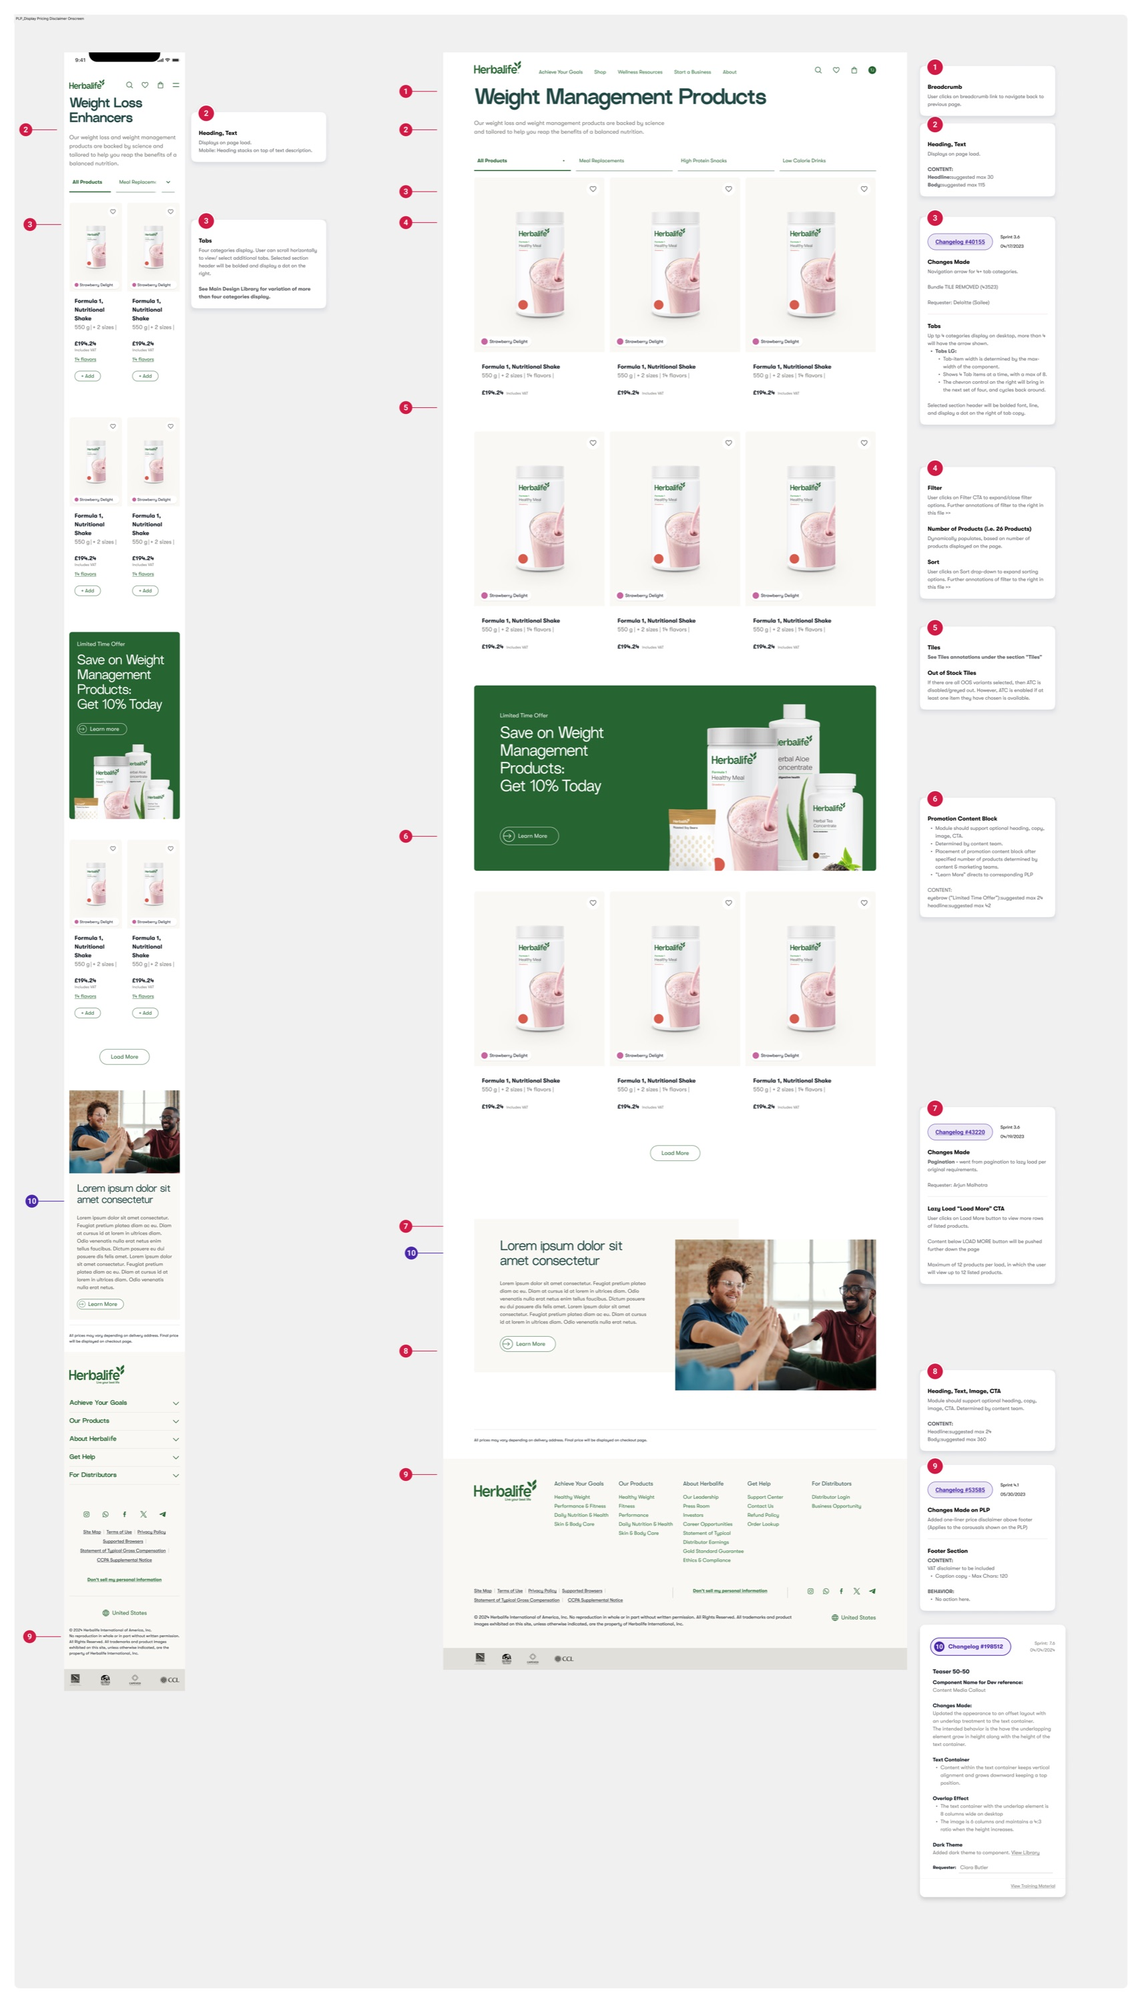
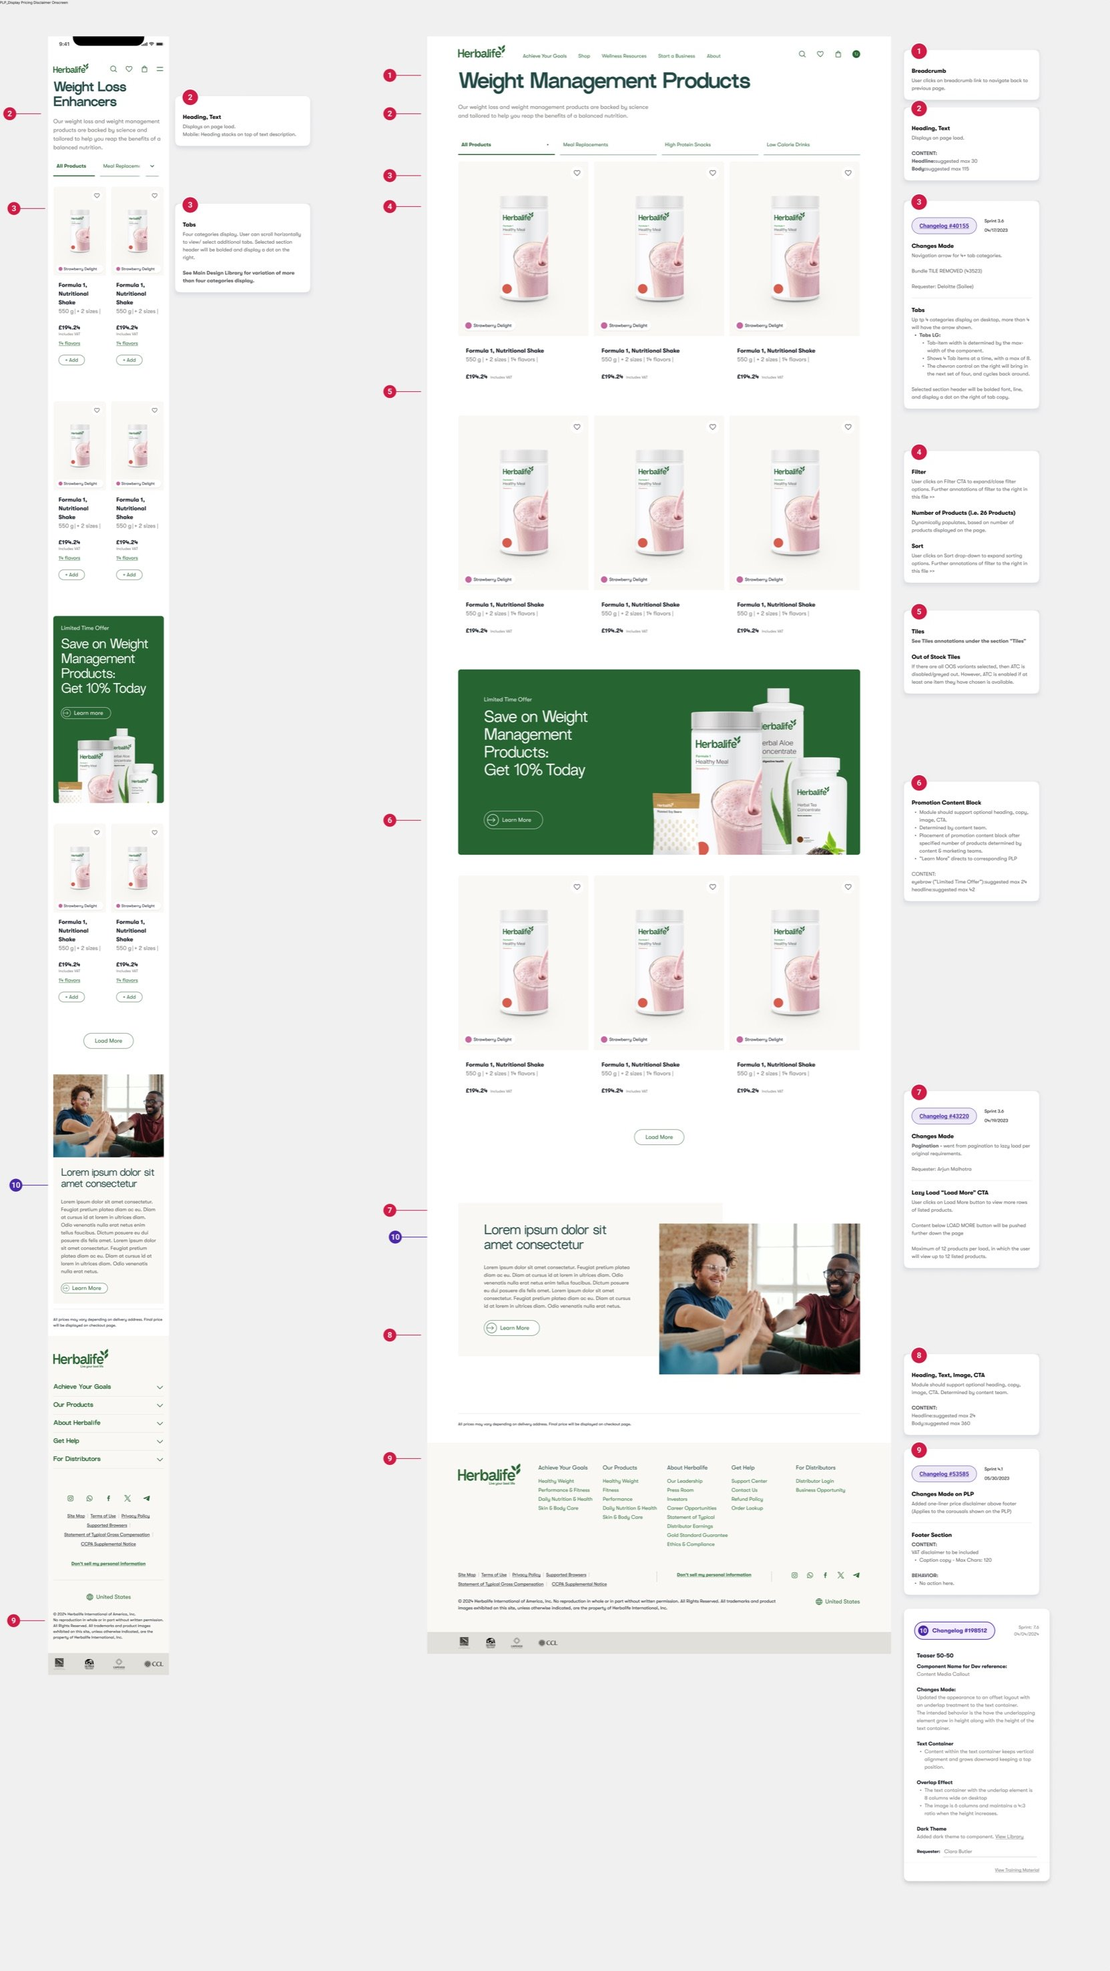
Herbalife case: Discovery carousel, Prioritization image, layout polish
- Discovery & Research: two-image carousel with arrows on both sides,
  dots, swipe, looping, and a one-time peek hint
- Prioritization image without background or shadows
- High Fidelity image without its white border; soft hover zoom on case
  images; phone mockup moved to Why it mattered, Overview text-only
- Invite: white band, shorter, without the extra email line
- Footer: equal white frame on all four sides

diff --git a/projects/herbalife/index.html b/projects/herbalife/index.html
@@ -108,34 +108,13 @@
 
     <div class="case-body">
 
-      <div class="case-row">
+      <div class="case-row case-row--text">
   <section class="case-block">
           <h2 class="case-block__label" data-i18n="hl.b0.label">Overview</h2>
           <div class="case-block__content">
             <p class="case-block__text" data-i18n="hl.b0.text">This project was about making shopping simpler and more trustworthy through clear navigation, a secure checkout, and integrated support. At the same time, we gave Herbalife distributors the tools to personalize the experience for their clients maintaining a consistent brand.</p>
           </div>
         </section>
-
-        <!-- Phone mockup with the product page recording playing on its screen -->
-        <figure class="case-figure mockup">
-          <div class="mockup__device">
-            <img class="mockup__frame" src="/assets/img/herbalife/phone-frame.png" alt="" />
-            <div class="mockup__screen">
-              <div class="mockup__status" aria-hidden="true">
-                <span class="mockup__time">9:41</span>
-                <span class="mockup__island"></span>
-                <span class="mockup__icons">
-                  <svg viewBox="0 0 18 12"><rect x="0" y="8" width="3" height="4" rx="1"/><rect x="5" y="5.5" width="3" height="6.5" rx="1"/><rect x="10" y="3" width="3" height="9" rx="1"/><rect x="15" y="0" width="3" height="12" rx="1"/></svg>
-                  <svg viewBox="0 0 16 12"><path d="M8 2.2c2.4 0 4.6.9 6.3 2.5l1.2-1.2A10.6 10.6 0 0 0 8 .5 10.6 10.6 0 0 0 .5 3.5l1.2 1.2A9 9 0 0 1 8 2.2z"/><path d="M8 5.6c1.5 0 2.9.6 4 1.6l1.2-1.2A7.3 7.3 0 0 0 8 3.9a7.3 7.3 0 0 0-5.2 2.1L4 7.2a5.7 5.7 0 0 1 4-1.6z"/><path d="M8 9c.6 0 1.1.2 1.6.6L8 11.5 6.4 9.6C6.9 9.2 7.4 9 8 9z"/></svg>
-                  <svg viewBox="0 0 27 12"><rect x=".6" y=".6" width="22.8" height="10.8" rx="3.2" fill="none" stroke="currentColor" stroke-opacity=".4" stroke-width="1.2"/><rect x="2.4" y="2.4" width="19.2" height="7.2" rx="1.8"/><path d="M25 4v4c.8-.3 1.4-1.1 1.4-2s-.6-1.7-1.4-2z" fill-opacity=".45"/></svg>
-                </span>
-              </div>
-              <div class="mockup__app">
-                <video class="media-video" src="/assets/img/herbalife/pdp-mobile.mp4" poster="/assets/img/herbalife/pdp-mobile-poster.jpg" autoplay muted loop playsinline disablepictureinpicture preload="auto" aria-label="Herbalife product page on mobile: browsing a product and adding it to the bag"></video>
-              </div>
-            </div>
-          </div>
-        </figure>
       </div>
 
       <div class="case-row case-row--flip">
@@ -160,8 +139,17 @@
           </div>
         </section>
 
-        <figure class="case-figure">
-          <img src="/assets/img/herbalife/mockup-phone.jpg" alt="" loading="lazy" />
+        <!-- Carousel: arrows to switch; on first view it nudges sideways to hint at the next image -->
+        <figure class="case-figure case-carousel" aria-roledescription="carousel" aria-label="Discovery and research boards">
+          <div class="case-carousel__viewport">
+            <div class="case-carousel__track">
+              <img class="case-carousel__slide" src="/assets/img/herbalife/discovery-1.jpg" width="1229" height="803" alt="Research boards: guidelines and case studies, a user journey map, and persona cards with experience opportunities" loading="lazy" />
+              <img class="case-carousel__slide" src="/assets/img/herbalife/discovery-2.jpg" width="1229" height="803" alt="Persona boards for four distributor profiles, a priority matrix and mapped needs per persona" loading="lazy" />
+            </div>
+          </div>
+          <button type="button" class="case-carousel__btn case-carousel__btn--prev" aria-label="Previous image"><svg viewBox="0 0 24 24" aria-hidden="true"><path d="M15 5l-7 7 7 7" fill="none" stroke="currentColor" stroke-width="2" stroke-linecap="round" stroke-linejoin="round"/></svg></button>
+          <button type="button" class="case-carousel__btn case-carousel__btn--next" aria-label="Next image"><svg viewBox="0 0 24 24" aria-hidden="true"><path d="M9 5l7 7-7 7" fill="none" stroke="currentColor" stroke-width="2" stroke-linecap="round" stroke-linejoin="round"/></svg></button>
+          <div class="case-carousel__dots" aria-hidden="true"><span class="is-active"></span><span></span></div>
         </figure>
       </div>
 
@@ -173,8 +161,8 @@
           </div>
         </section>
 
-        <figure class="case-figure">
-          <img src="/assets/img/herbalife/mockup-phone.jpg" alt="" loading="lazy" />
+        <figure class="case-figure case-figure--natural">
+          <img src="/assets/img/herbalife/prioritization.webp" width="1084" height="942" alt="Prioritization flow: personas, interviews, surveys and quantitative data led to 120+ jobs to be done, prioritized into key features and priorities for each persona" loading="lazy" />
         </figure>
       </div>
 
@@ -201,8 +189,7 @@
 
         <figure class="case-figure case-figure--spec">
           <a href="/assets/img/herbalife/high-fidelity-handoff.jpg" target="_blank" rel="noopener">
-            <img src="/assets/img/herbalife/high-fidelity-handoff.jpg" width="1711" height="3000" alt="Annotated high-fidelity spec of the Weight Management product listing page, on mobile and desktop, with numbered notes on each component" loading="lazy" />
-            <span class="case-figure__badge"><span data-i18n="hl.spec.open">View full spec</span> <span aria-hidden="true">↗</span></span>
+            <img src="/assets/img/herbalife/high-fidelity-handoff.jpg" width="1663" height="2952" alt="Annotated high-fidelity spec of the Weight Management product listing page, on mobile and desktop, with numbered notes on each component" loading="lazy" />
           </a>
         </figure>
       </div>
@@ -216,8 +203,25 @@
           </div>
         </section>
 
-        <figure class="case-figure">
-          <img src="/assets/img/herbalife/mockup-phone.jpg" alt="" loading="lazy" />
+        <!-- Phone mockup with the product page recording playing on its screen -->
+        <figure class="case-figure mockup">
+          <div class="mockup__device">
+            <img class="mockup__frame" src="/assets/img/herbalife/phone-frame.png" alt="" />
+            <div class="mockup__screen">
+              <div class="mockup__status" aria-hidden="true">
+                <span class="mockup__time">9:41</span>
+                <span class="mockup__island"></span>
+                <span class="mockup__icons">
+                  <svg viewBox="0 0 18 12"><rect x="0" y="8" width="3" height="4" rx="1"/><rect x="5" y="5.5" width="3" height="6.5" rx="1"/><rect x="10" y="3" width="3" height="9" rx="1"/><rect x="15" y="0" width="3" height="12" rx="1"/></svg>
+                  <svg viewBox="0 0 16 12"><path d="M8 2.2c2.4 0 4.6.9 6.3 2.5l1.2-1.2A10.6 10.6 0 0 0 8 .5 10.6 10.6 0 0 0 .5 3.5l1.2 1.2A9 9 0 0 1 8 2.2z"/><path d="M8 5.6c1.5 0 2.9.6 4 1.6l1.2-1.2A7.3 7.3 0 0 0 8 3.9a7.3 7.3 0 0 0-5.2 2.1L4 7.2a5.7 5.7 0 0 1 4-1.6z"/><path d="M8 9c.6 0 1.1.2 1.6.6L8 11.5 6.4 9.6C6.9 9.2 7.4 9 8 9z"/></svg>
+                  <svg viewBox="0 0 27 12"><rect x=".6" y=".6" width="22.8" height="10.8" rx="3.2" fill="none" stroke="currentColor" stroke-opacity=".4" stroke-width="1.2"/><rect x="2.4" y="2.4" width="19.2" height="7.2" rx="1.8"/><path d="M25 4v4c.8-.3 1.4-1.1 1.4-2s-.6-1.7-1.4-2z" fill-opacity=".45"/></svg>
+                </span>
+              </div>
+              <div class="mockup__app">
+                <video class="media-video" src="/assets/img/herbalife/pdp-mobile.mp4" poster="/assets/img/herbalife/pdp-mobile-poster.jpg" autoplay muted loop playsinline disablepictureinpicture preload="auto" aria-label="Herbalife product page on mobile: browsing a product and adding it to the bag"></video>
+              </div>
+            </div>
+          </div>
         </figure>
       </div>
 
@@ -240,7 +244,6 @@
       <p class="case-invite__text" data-i18n="case.invite.text">The research that changed our direction, the trade-offs we argued about, and what I'd do differently today. I'm happy to walk you through it.</p>
       <div class="case-invite__actions">
         <a class="case-invite__cta" href="mailto:albagli.sarah@gmail.com?subject=Let%27s%20talk%20about%20the%20Herbalife%20case" data-copy-email="albagli.sarah@gmail.com"><span class="case-invite__cta-label" data-i18n="case.invite.cta">Let's talk about it</span> <span aria-hidden="true">→</span></a>
-        <p class="case-invite__email"><span data-i18n="case.invite.or">or write to</span> <a href="mailto:albagli.sarah@gmail.com">albagli.sarah@gmail.com</a></p>
       </div>
     </section>
 
@@ -308,8 +311,7 @@
   "hl.b6.note": "Diseñar una experiencia sin anuncios implicó crear flujos de contenido atractivos sin publicidad tradicional. Lo logramos apostando por contenido visual rico y opciones de descubrimiento guiadas por el usuario.",
   "hl.b7.label": "Grandes logros",
   "hl.more.title": "Más proyectos",
-  "hl.more.all": "Todos los proyectos",
-  "hl.spec.open": "Ver especificación completa"
+  "hl.more.all": "Todos los proyectos"
 }
   </script>
   <script src="/i18n.js"></script>

diff --git a/style.css b/style.css
@@ -456,7 +456,8 @@ html.intro-active { overflow: hidden; }
 
 /* ---------- Footer ---------- */
 .footer {
-  margin: 0 30px 30px;
+  /* same white frame on all four sides */
+  margin: 30px;
   padding: 60px 60px 60px;
   background: var(--paper-2);
 }
@@ -525,7 +526,7 @@ html.intro-active { overflow: hidden; }
 
   .clients__cell { width: 200px; height: 140px; }
 
-  .footer { margin: 0 0 0; padding: 40px var(--gutter); }
+  .footer { margin: 12px; padding: 40px 20px; }
   .footer__statement { margin-bottom: 32px; }
   .footer__gradient { margin-bottom: 40px; }
 }
@@ -1025,7 +1026,8 @@ html.intro-active { overflow: hidden; }
 }
 
 /* Project detail: closing invite to talk about the case */
-.case-invite { padding: 120px var(--gutter) 40px; max-width: 980px; }
+.case-invite { padding: 64px var(--gutter); background: #fff; }
+.case-invite > * { max-width: 980px; }
 .case-invite__eyebrow { margin-bottom: 24px; }
 .case-invite__title { font-size: clamp(32px, 4vw, 56px); font-weight: 600; line-height: 1.05; letter-spacing: -0.04em; margin-bottom: 24px; }
 .case-invite__text { max-width: 36em; font-size: clamp(17px, 1.4vw, 20px); font-weight: 500; line-height: 1.5; color: var(--ink-soft); margin-bottom: 36px; }
@@ -1043,10 +1045,7 @@ html.intro-active { overflow: hidden; }
 }
 .case-invite__cta:hover { background: var(--blue); transform: translateY(-2px); }
 .case-invite__actions { display: flex; flex-wrap: wrap; align-items: center; gap: 12px 24px; }
-.case-invite__email { font-size: 15px; font-weight: 500; color: var(--ink-soft); }
-.case-invite__email a { color: var(--ink); border-bottom: 1px solid currentColor; }
-.case-invite__email a:hover { color: var(--blue); }
-@media (max-width: 860px) { .case-invite { padding: 72px var(--gutter) 24px; } }
+@media (max-width: 860px) { .case-invite { padding: 48px var(--gutter); } }
 
 /* Project detail: video playing inside a phone mockup.
    phone-frame.png is the phone cut out of mockup-phone.jpg (465x958); its screen
@@ -1157,23 +1156,9 @@ html.intro-active { overflow: hidden; }
 /* Case images that should not be cropped to 4:3 */
 .case-row .case-figure.case-figure--natural img { aspect-ratio: auto; }
 /* Tall annotated spec: show the top, open the full image on click */
-.case-row .case-figure.case-figure--spec img { aspect-ratio: 4 / 5; object-position: top; transition: transform 0.6s cubic-bezier(.2,.7,.2,1); }
+.case-row .case-figure.case-figure--spec img { aspect-ratio: 4 / 5; object-position: top; }
+.case-figure--spec a { cursor: zoom-in; }
 .case-figure--spec a { position: relative; display: block; }
-.case-figure--spec a:hover img { transform: scale(1.02); }
-.case-figure__badge {
-  position: absolute;
-  right: 16px;
-  bottom: 16px;
-  padding: 10px 16px;
-  border-radius: 999px;
-  background: rgba(12, 12, 12, 0.85);
-  color: #fff;
-  font-size: 14px;
-  font-weight: 600;
-  backdrop-filter: blur(6px);
-  transition: background-color 0.2s;
-}
-.case-figure--spec a:hover .case-figure__badge { background: var(--blue); }
 
 /* Case pages: placeholders until the real images arrive */
 .case-figure--placeholder,
@@ -1198,4 +1183,70 @@ html.intro-active { overflow: hidden; }
 @media (max-width: 860px) {
   .case-closing { grid-template-columns: 1fr; gap: 48px; }
   .case-figure--placeholder, .case-achievements--placeholder { border-radius: 16px; }
+}
+
+/* Case images: slow, soft zoom on hover (the figure clips the overflow) */
+.case-row .case-figure:not(.mockup):not(.case-figure--placeholder) { overflow: hidden; }
+.case-row .case-figure:not(.mockup):not(.case-figure--placeholder) img { transition: transform 1.2s cubic-bezier(.2,.7,.2,1); }
+.case-row .case-figure:not(.mockup):not(.case-figure--placeholder):hover img { transform: scale(1.05); }
+@media (prefers-reduced-motion: reduce) {
+  .case-row .case-figure img { transition: none; }
+  .case-row .case-figure:hover img { transform: none; }
+}
+
+/* A case row with text only (no image): the text keeps the same column
+   width as the text in the rows below, the other column stays empty */
+
+/* Case image carousel (Herbalife: Discovery & Research) */
+.case-carousel { position: relative; }
+.case-carousel__viewport { overflow: hidden; border-radius: inherit; }
+.case-carousel__track {
+  display: flex;
+  gap: 16px;
+  transition: transform 0.7s cubic-bezier(.65,0,.25,1);
+  touch-action: pan-y;
+}
+.case-row .case-figure.case-carousel img.case-carousel__slide {
+  flex: 0 0 100%;
+  width: 100%;
+  aspect-ratio: 1229 / 803;
+  object-fit: cover;
+  border-radius: 24px;
+}
+.case-row .case-figure.case-carousel:hover img { transform: none; }
+/* first time on screen: slide over a little to show the edge of the next image */
+.case-carousel__track.is-peeking { animation: carousel-peek 1.6s cubic-bezier(.45,0,.25,1) 0.3s both; }
+@keyframes carousel-peek {
+  0%, 100% { transform: translateX(0); }
+  45%, 60% { transform: translateX(-16%); }
+}
+.case-carousel__btn {
+  position: absolute;
+  top: 50%;
+  display: grid;
+  place-items: center;
+  width: 44px;
+  height: 44px;
+  border-radius: 50%;
+  background: rgba(255, 255, 255, 0.92);
+  color: var(--ink);
+  box-shadow: 0 6px 18px rgba(0, 0, 0, 0.18);
+  transform: translateY(-50%);
+  transition: opacity 0.2s, background-color 0.2s, transform 0.2s;
+}
+.case-carousel__btn svg { width: 20px; height: 20px; }
+.case-carousel__btn--prev { left: 14px; }
+.case-carousel__btn--next { right: 14px; }
+.case-carousel__btn:hover { background: #fff; transform: translateY(-50%) scale(1.06); }
+.case-carousel__btn:disabled { opacity: 0; pointer-events: none; }
+.case-carousel__dots { position: absolute; left: 50%; bottom: 14px; display: flex; gap: 6px; transform: translateX(-50%); }
+.case-carousel__dots span { width: 7px; height: 7px; border-radius: 50%; background: rgba(255, 255, 255, 0.6); box-shadow: 0 0 0 1px rgba(0, 0, 0, 0.15); transition: background-color 0.2s, width 0.2s; }
+.case-carousel__dots span.is-active { width: 18px; border-radius: 999px; background: #fff; }
+@media (max-width: 860px) {
+  .case-row .case-figure.case-carousel img.case-carousel__slide { border-radius: 16px; }
+  .case-carousel__btn { width: 36px; height: 36px; }
+}
+@media (prefers-reduced-motion: reduce) {
+  .case-carousel__track { transition: none; }
+  .case-carousel__track.is-peeking { animation: none; }
 }

diff --git a/script.js b/script.js
@@ -254,6 +254,51 @@ document.querySelectorAll('[data-copy-email]').forEach((link) => {
   });
 });
 
+// ---------- Case image carousels ----------
+// Arrows (and swipe on touch) move between slides, looping at the ends so
+// both arrows always work. The first time the
+// carousel comes on screen it nudges sideways to show the next image's edge.
+document.querySelectorAll('.case-carousel').forEach((carousel) => {
+  const track = carousel.querySelector('.case-carousel__track');
+  const slides = track.children;
+  const prev = carousel.querySelector('.case-carousel__btn--prev');
+  const next = carousel.querySelector('.case-carousel__btn--next');
+  const dots = carousel.querySelectorAll('.case-carousel__dots span');
+  let index = 0;
+  const go = (i) => {
+    index = (i + slides.length) % slides.length;
+    const gap = parseFloat(getComputedStyle(track).columnGap) || 0;
+    track.style.transform = `translateX(calc(${-index * 100}% - ${index * gap}px))`;
+    dots.forEach((d, n) => d.classList.toggle('is-active', n === index));
+  };
+  prev.addEventListener('click', () => go(index - 1));
+  next.addEventListener('click', () => go(index + 1));
+  carousel.addEventListener('keydown', (e) => {
+    if (e.key === 'ArrowLeft') go(index - 1);
+    if (e.key === 'ArrowRight') go(index + 1);
+  });
+  // swipe
+  let startX = null;
+  track.addEventListener('pointerdown', (e) => { if (e.pointerType !== 'mouse') startX = e.clientX; });
+  track.addEventListener('pointerup', (e) => {
+    if (startX === null) return;
+    const dx = e.clientX - startX;
+    if (Math.abs(dx) > 40) go(index + (dx < 0 ? 1 : -1));
+    startX = null;
+  });
+  go(0);
+  // one-time peek hint
+  if (!window.matchMedia('(prefers-reduced-motion: reduce)').matches) {
+    new IntersectionObserver(([entry], obs) => {
+      if (!entry.isIntersecting) return;
+      obs.disconnect();
+      if (index !== 0) return;
+      track.classList.add('is-peeking');
+      track.addEventListener('animationend', () => track.classList.remove('is-peeking'), { once: true });
+    }, { threshold: 0.6 }).observe(carousel);
+  }
+});
+
 // ---------- Flowing gradient backgrounds (hero + footer) ----------
 // The image is drawn on a WebGL canvas and slowly warped by layered sine
 // waves, so the colours drift like liquid. If WebGL is unavailable the

diff --git a/projects/mccain/index.html b/projects/mccain/index.html
@@ -217,7 +217,6 @@
       <p class="case-invite__text" data-i18n="case.invite.text">The research that changed our direction, the trade-offs we argued about, and what I'd do differently today. I'm happy to walk you through it.</p>
       <div class="case-invite__actions">
         <a class="case-invite__cta" href="mailto:albagli.sarah@gmail.com?subject=Let%27s%20talk%20about%20the%20McCain%20case" data-copy-email="albagli.sarah@gmail.com"><span class="case-invite__cta-label" data-i18n="case.invite.cta">Let's talk about it</span> <span aria-hidden="true">→</span></a>
-        <p class="case-invite__email"><span data-i18n="case.invite.or">or write to</span> <a href="mailto:albagli.sarah@gmail.com">albagli.sarah@gmail.com</a></p>
       </div>
     </section>
 

diff --git a/projects/dxc/index.html b/projects/dxc/index.html
@@ -212,7 +212,6 @@
       <p class="case-invite__text" data-i18n="case.invite.text">The research that changed our direction, the trade-offs we argued about, and what I'd do differently today. I'm happy to walk you through it.</p>
       <div class="case-invite__actions">
         <a class="case-invite__cta" href="mailto:albagli.sarah@gmail.com?subject=Let%27s%20talk%20about%20the%20DxC%20case" data-copy-email="albagli.sarah@gmail.com"><span class="case-invite__cta-label" data-i18n="case.invite.cta">Let's talk about it</span> <span aria-hidden="true">→</span></a>
-        <p class="case-invite__email"><span data-i18n="case.invite.or">or write to</span> <a href="mailto:albagli.sarah@gmail.com">albagli.sarah@gmail.com</a></p>
       </div>
     </section>
 

diff --git a/i18n.js b/i18n.js
@@ -33,7 +33,6 @@ window.I18N_ES = {
   "case.invite.title": "Detrás de este caso hay mucho más de lo que cabe en una página.",
   "case.invite.text": "La investigación que cambió nuestro rumbo, las decisiones que discutimos y lo que haría distinto hoy. Te lo cuento con gusto.",
   "case.invite.cta": "Hablemos de ello",
-  "case.invite.or": "o escríbeme a",
   "case.invite.copied": "Email copiado",
   "case.more.title": "Más proyectos",
   "case.more.all": "Todos los proyectos"
